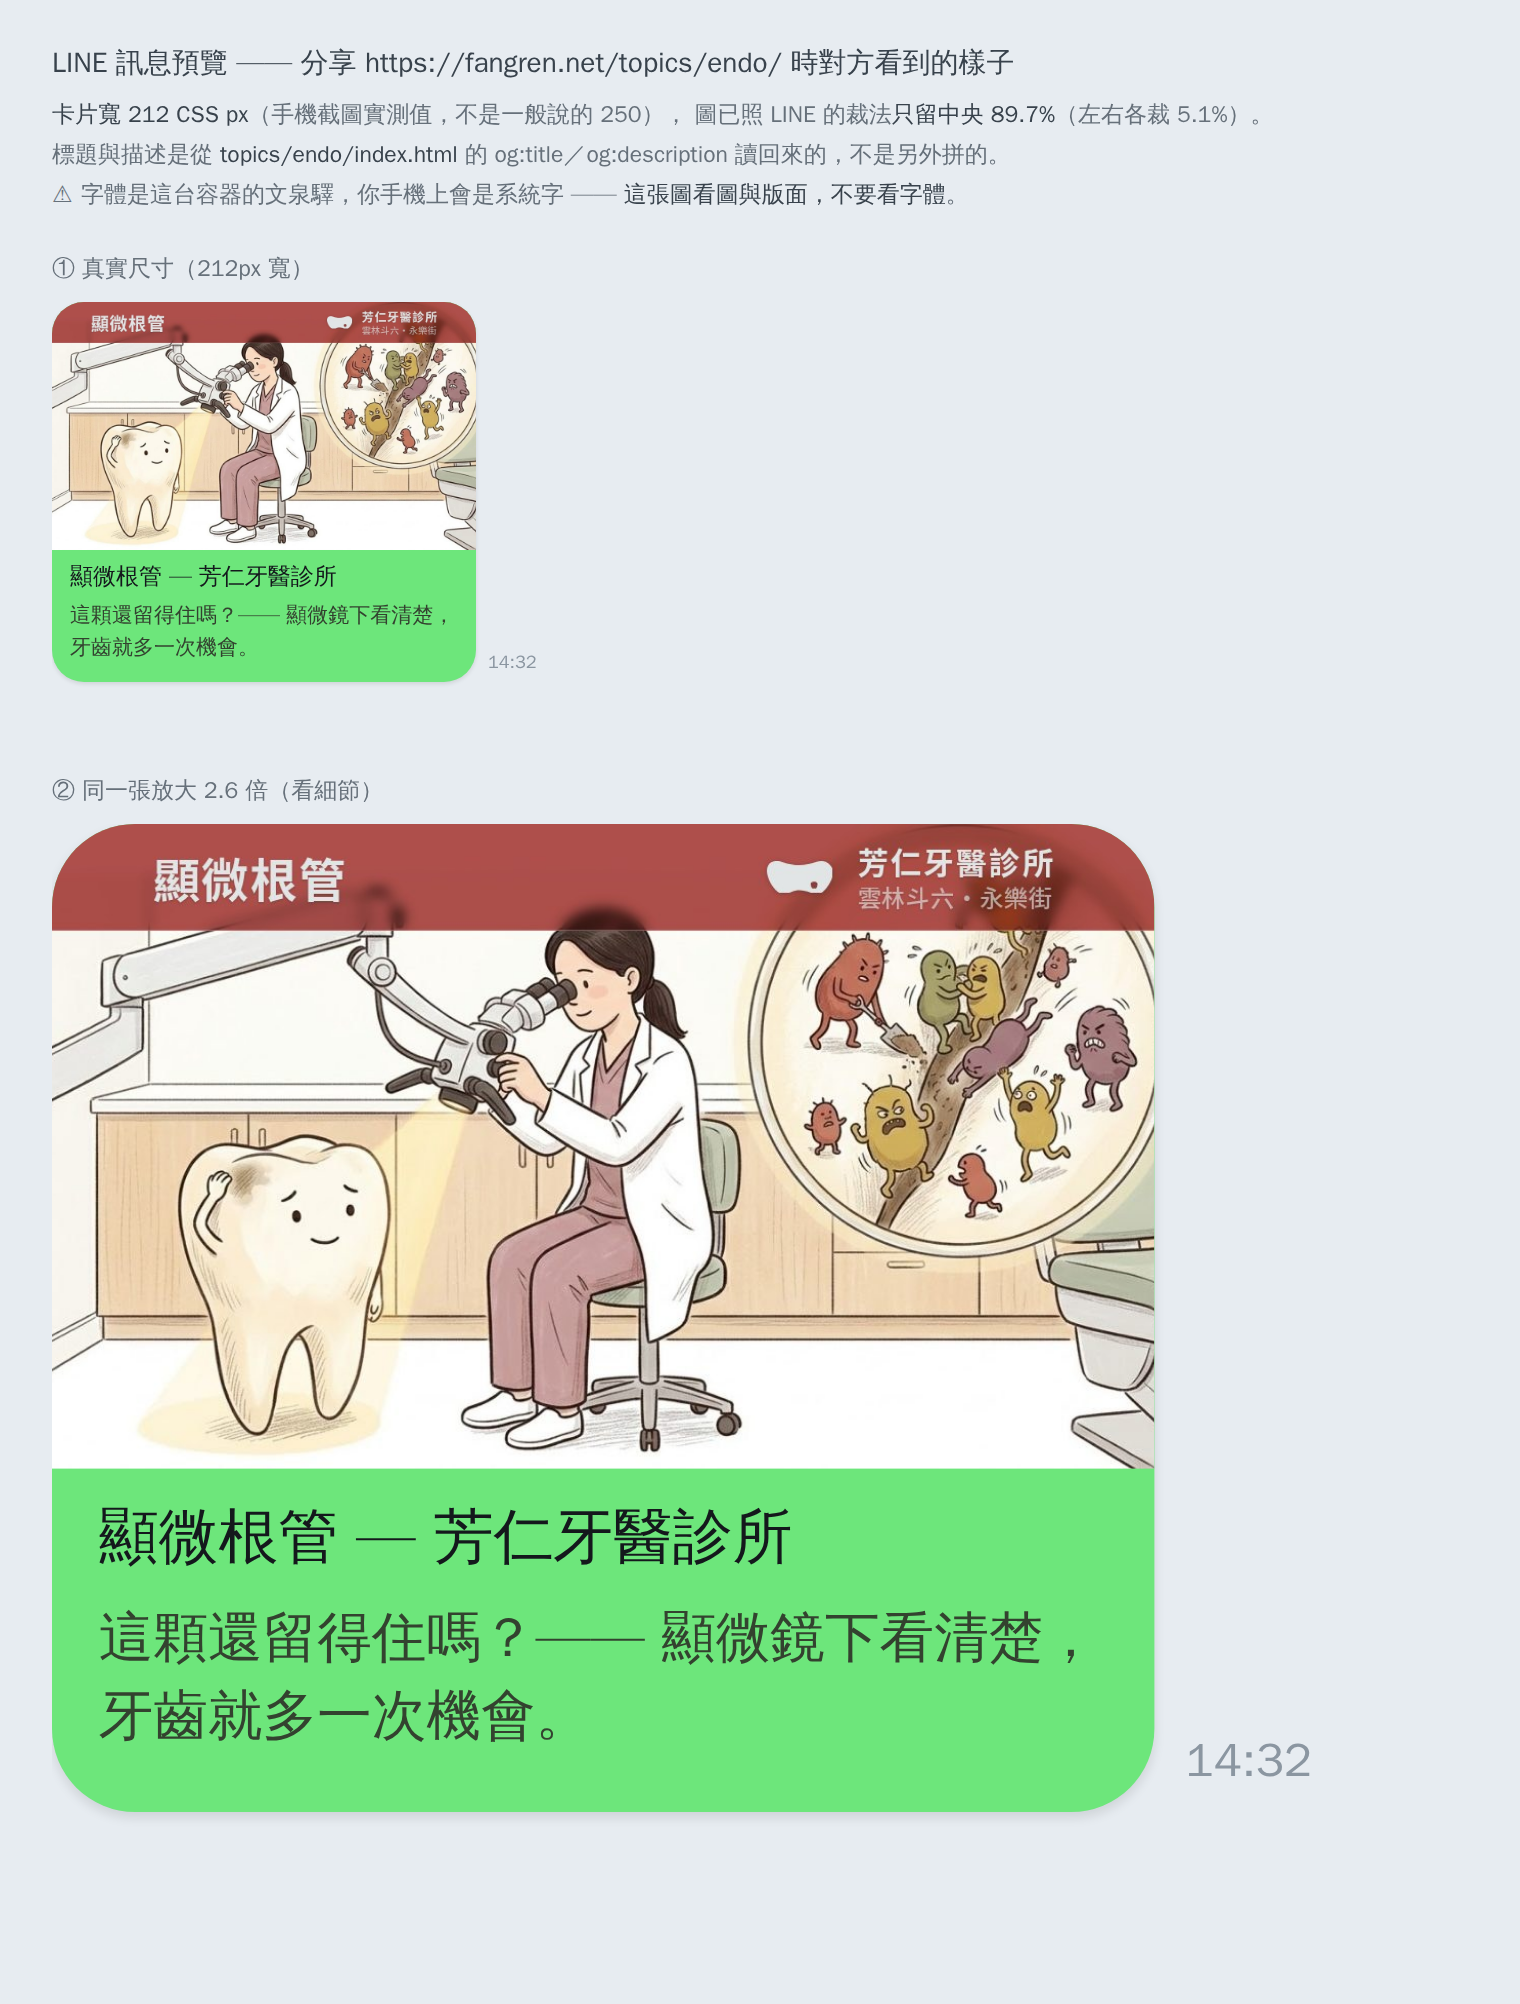
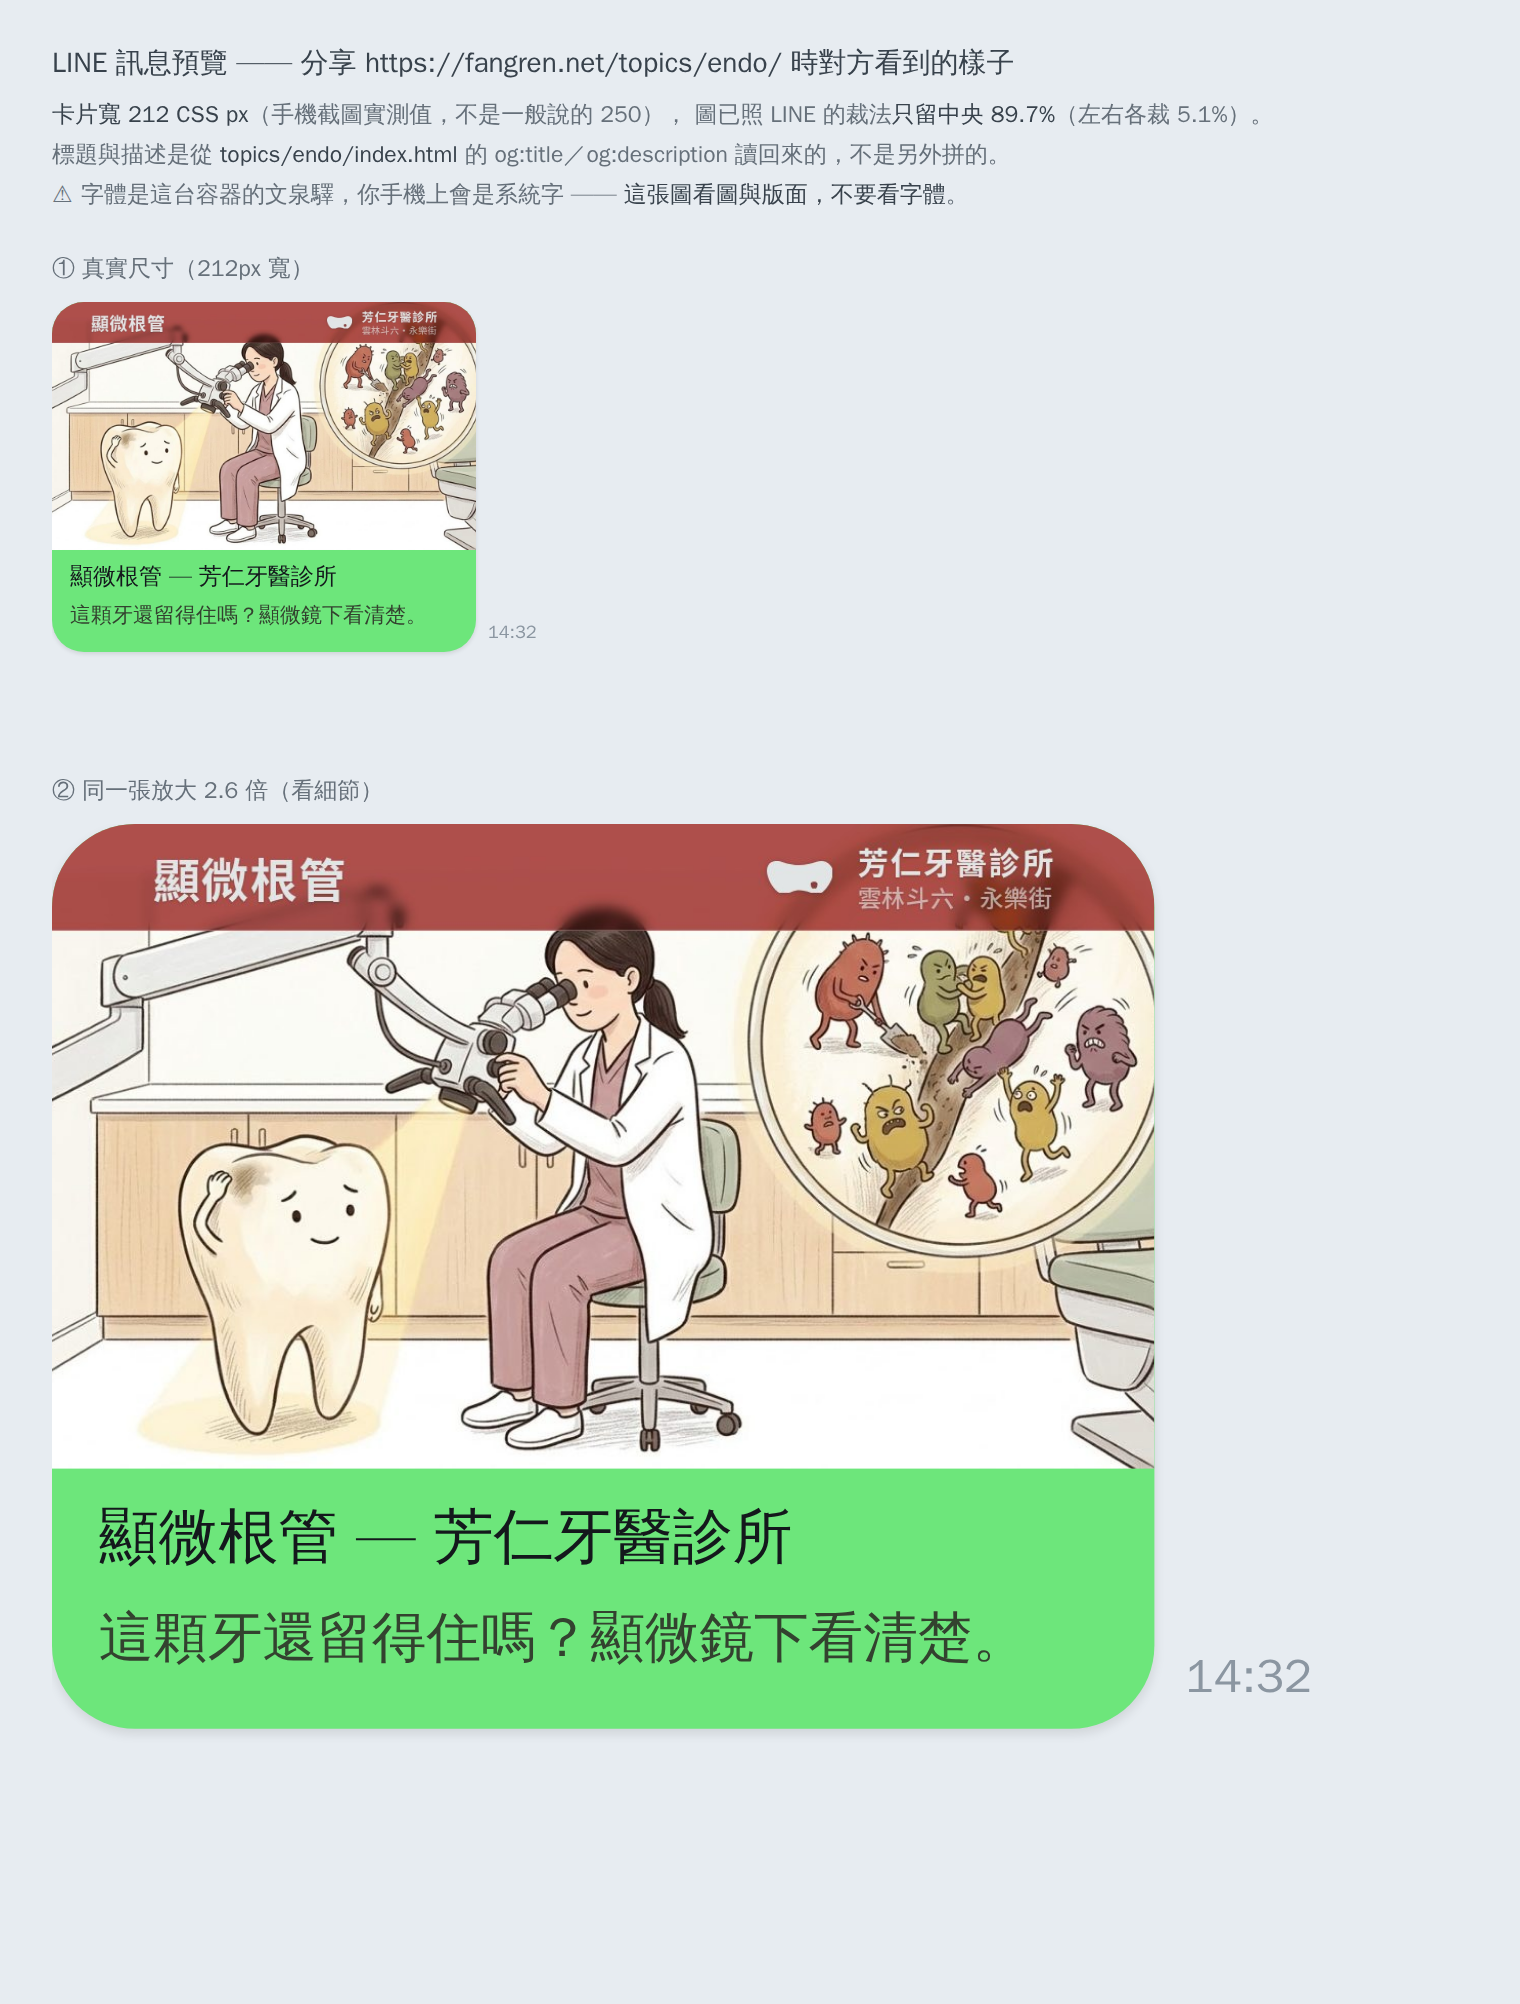
顯微根管訊息卡的描述改成使用者給的那一句
「這顆牙還留得住嗎？顯微鏡下看清楚。」（原本是頁面 lead 的原句
「這顆還留得住嗎？—— 顯微鏡下看清楚，牙齒就多一次機會。」）。
只動 tools/topics.mjs 的 OG_DESC.endo —— 那一份**只覆寫 og:description**，
所以改的只有訊息 app 的預覽卡；頁面上的第一句與 Google 搜尋結果那兩行
（<meta name="description">，descOf() 從那一頁自己的開場拼的）一個字都沒動。
新的那一句在 212px 的卡上剛好一行放得完（舊的兩行），重跑
drafts/line-mock.mjs endo 確認過。

Claude-Session: https://claude.ai/code/session_01JQARwGMUvTcZML1HoFYHKx

Changed region(s): [[0.0309, 0.8044, 0.8658, 0.9281], [0.0309, 0.2784, 0.3401, 0.3403]]

diff --git a/topics/endo/index.html b/topics/endo/index.html
@@ -117,7 +117,7 @@
 <meta property="og:type" content="website">
 <meta property="og:url" content="https://fangren.net/topics/endo/">
 <meta property="og:title" content="顯微根管 — 芳仁牙醫診所">
-<meta property="og:description" content="這顆還留得住嗎？—— 顯微鏡下看清楚，牙齒就多一次機會。">
+<meta property="og:description" content="這顆牙還留得住嗎？顯微鏡下看清楚。">
 <meta property="og:locale" content="zh_TW">
 <meta property="og:image" content="https://fangren.net/assets/og-topic-endo.jpg">
 <meta property="og:image:width" content="1200">
